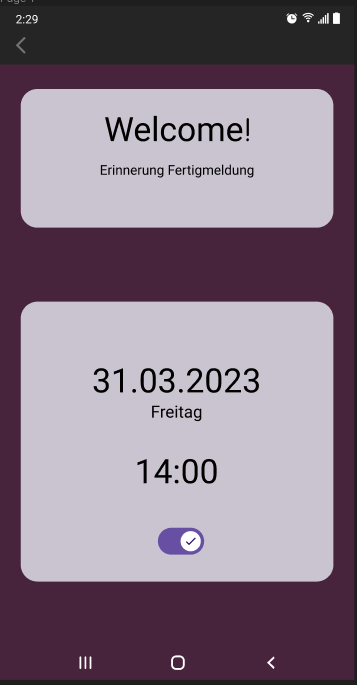
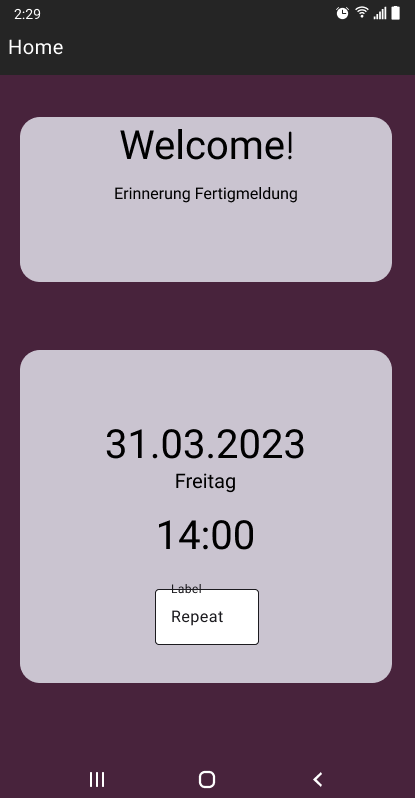
updated documentation

diff --git a/time-reminder/components/DatePicker.tsx b/time-reminder/components/DatePicker.tsx
@@ -97,6 +97,7 @@ const styles = StyleSheet.create({
         fontSize: 35,
     },
     dayText: {
-        fontSize: 20,
+        fontSize: 18,
+        marginBottom: 10,
     },
 })

diff --git a/documentation/uek335_documentation_micky_celine.md b/documentation/uek335_documentation_micky_celine.md
@@ -51,15 +51,9 @@ Die User Stories sind fertig wenn:
 
 ### Home page
 
-Die unten dargestellte Seite, stellt das Muckup unserer Home Page dar. Auf dieser Seite wird als erstes ein kleiner Willkommenstext dargestellt. Weiter unten ist zu sehen, wann die nächste Erinnerung kommt. Falls der Nutzer nicht mehr zufrienden ist kann er auf den dargestellten Kasten klicken. Dann wird er auf die [nächste Seite](#selecting-page) weitergeleitet.
+Die unten dargestellte Seite, stellt das Mockup unserer Home Page dar. Auf dieser Seite wird als erstes ein kleiner Willkommenstext dargestellt. Weiter unten ist zu sehen, wann die nächste Erinnerung kommt. Falls der Nutzer nicht mehr zufrienden ist, kann er das Datum und die Uhrzeit der Erinnerung ändern.
 
-![Home Page](./select_page.png)
-
-### Selecting Page
-
-Die Selecting Page ist die Seite, auf der das Datum und die Uhrzeit der Erinnerung angepasst und definiert werden kann. Zusätzlich kann ausgewählt werden, wieviele Monate in Folge die Erinnerung kommt.
-
-![Pick Page](./datetimepickpage.png)
+![Home Page](./homepage.png)
 
 ### Message
 
